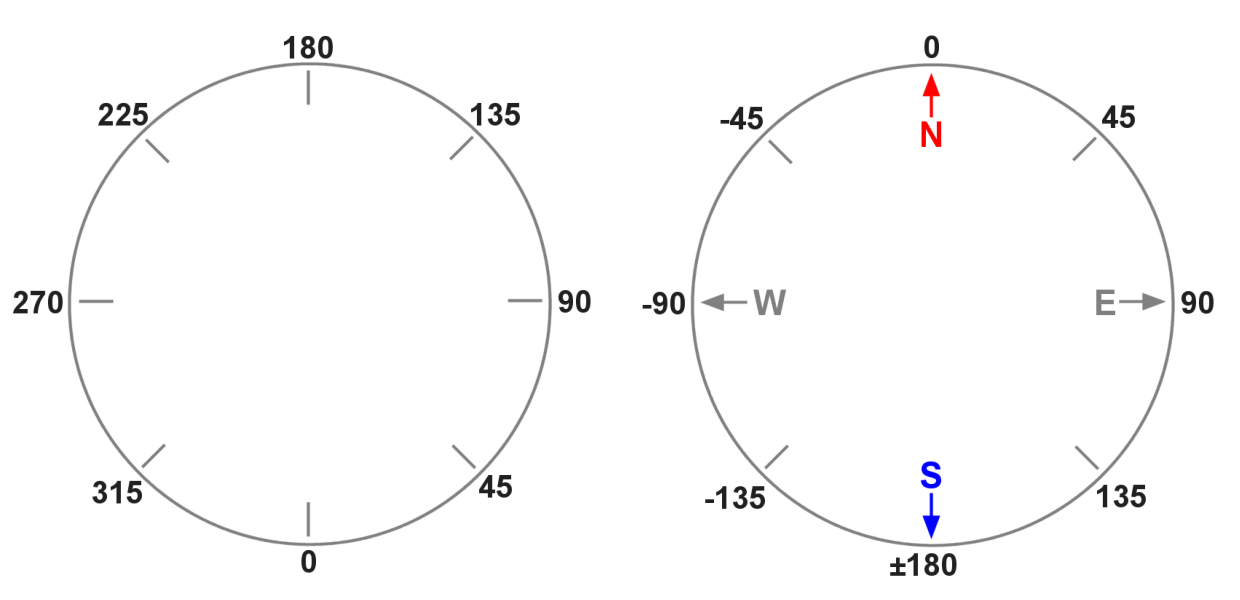
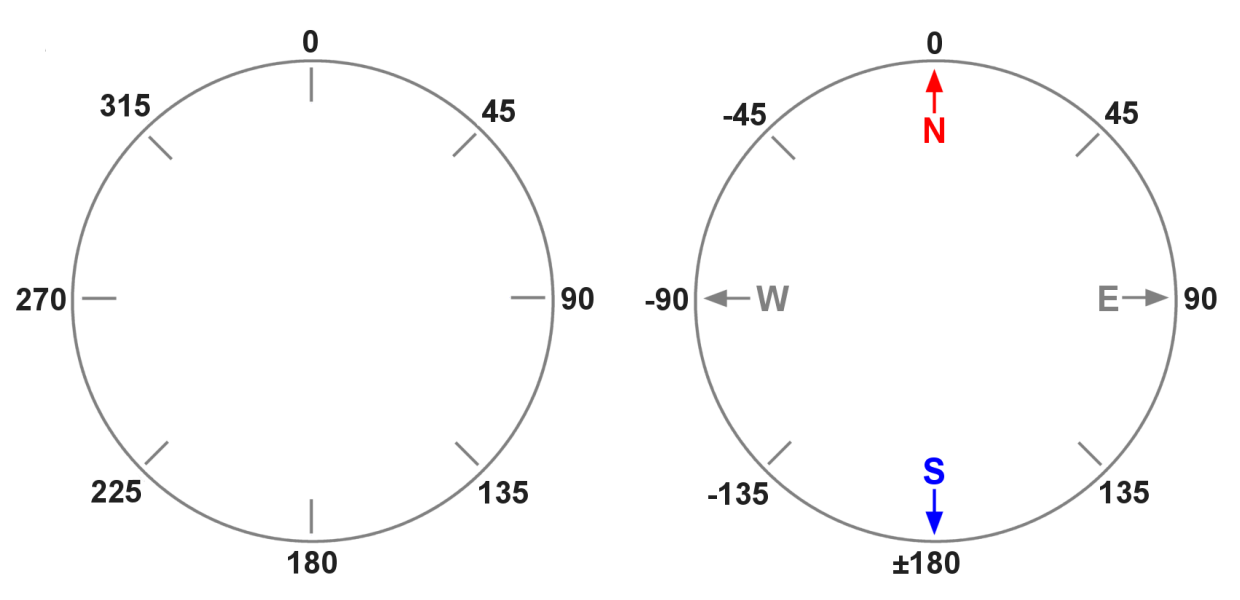
modified:   img/gps_bearing_n_attitude.png 	modified:   rospy/bebop2/bb2_6_move_by_gps.md

diff --git a/rospy/bebop2/bb2_6_move_by_gps.md b/rospy/bebop2/bb2_6_move_by_gps.md
@@ -188,7 +188,7 @@ from haversine import haversine
                   longitude 1 degree 
                 |<- 90075.833903 m -->| 
                 |                     | (longitude)
-    ----------  +---------p3----------+  34.444029
+    ----------  +---------p1----------+  34.444029
       ^         |          |          |          input latitude  of Point1:  35.944029
       |         |          |          |          input longitude of Point1: 126.184297 --+
       |         |          |          |          input latitude  of Point2:  35.944029   |
@@ -200,7 +200,7 @@ from haversine import haversine
       |         |     .    |          |          input latitude  of Point2:  36.444029 --+
       |         |   .      |          |          input longitude of Point2: 126.684297
       v         | .        |          |      distance = 111016.503262, bearing = 0.000018
-    ---------- p5---------p1----------+   36.444029
+    ---------- p5---------p3----------+   36.444029
 (longuitude) 126.184297 126.684297 127.184297
 
    longitude 1.0000000 = 90075.833903(m)       latitude 1.000000000 = 111016.503262(m)
@@ -364,13 +364,17 @@ if __name__ == '__main__':
 
 다음은 두 방위각( `get_bearing()` : 위 좌측 그림 참조,   `...AttitudeChanged.yaw` : 위 우측 그림 참조 )이 사용하는 방위각 형식을 1:1 로 매칭 시킨 표이다.
 
-| get_bearing( ) | 0  | 45  | 90   | 135  | 180  | 225 | 270  | 225  |
+| get_bearing( ) | 0  | 45  | 90   | 135  | 180  | 225 | 270  | 315 |
 | :--: | ---: | ---: | ---: | ---: | ---: | ---: | ---: | ---: |
-|**AttitudeChanged** | **180** | **135** | **90** | **45** | **0** | **-45** | **-90** | **-135** |
+|**AttitudeChanged** | **0** | **45** | **90** | **135** | **180** | **-135** | **-90** | **-45** |
 
-위 표를 살펴보면 ' `get_bearing()` + `...AttitudeChanged.yaw`  = 180 ' 의 관계가 성립한다는 것을 알 수 있다. 
+위 표를 살펴보면, 
 
-따라서 **' `Target_Attitude`  = 180 -  `get_bearing()` '** 로  `...AttitudeChanged.yaw` 형식의 목적 방위각을 구할 수 있다. 이렇게 구한 목적방위각( `Target_Attitude` )과 드론의 현재방위각( `Current_Attitude` )의 위치관계에 따라 다음 4가지 경우로 구분하여 회전시켜야 할 필요가 있다. 
+     **0 <= `get_bearing()` < 180** 인 경우 **`Target_Attitude` = `get_bearing()`** 인 관계가 성립하고,	
+
+**180 <= `get_bearing()` < 360** 인 경우 **`Target_Attitude` = `get_bearing()` - 360** 인 관계가 성립한다는 것을 알 수 있다. 
+
+이렇게 구한 목적방위각( `Target_Attitude` )과 드론의 현재방위각( `Current_Attitude` )의 위치관계에 따라 다음 4가지 경우로 구분하여 회전시켜야 할 필요가 있다. 
 
 **case1.**  `Current_Attitude` >= 0 `and`  `Target_Attitude` >= 0
 
@@ -380,209 +384,11 @@ if __name__ == '__main__':
 
 **case4.**  `Current_Attitude` <   0 `and`  `Target_Attitude` <   0 
 
-
-
 이를 이용하여  `get_bearing()` 으로 구한 방위각으로 부터 `Target_Attitude` 를 구하고,  `Target_Attitude` 에 도달할 때까지 기체를 회전시키는 코드를 구현해보자. 
 
 ```python
-#!/usr/bin/env python
-
-import rospy, sys
-from std_msgs.msg import Empty
-from std_msgs.msg import String
-from geometry_msgs.msg import Twist
-from bebop_msgs.msg import Ardrone3PilotingStatePositionChanged
-from bebop_msgs.msg import Ardrone3PilotingStateAttitudeChanged
-from bebop_msgs.msg import Ardrone3GPSStateNumberOfSatelliteChanged
-from math import pi, radians, degrees#, pow, sqrt, atan
-from bb2_pkg.MoveBB2 import MoveBB2
-from bb2_pkg.GPS import GPS
-
-USE_SPHINX   = bool(int(sys.argv[1]))
-
-LAT = 0; LON =   1   
-
-OFFSET_LAT   = -13.645105
-OFFSET_LON   = 126.715070
-
-LIN_SPD      =   0.25
-ANG_SPD      =   0.25
-
-TARGET_LATI  = 500.0
-TARGET_LONG  = 500.0
-TARGET_ATTI  =   0.0
-TARGET_DIST  =   0.0
-
-class MoveByGPS:
-    
-    def __init__(self):
-
-        rospy.init_node("move_by_gps", anonymous=True)
-        
-        rospy.Subscriber("/bebop/states/ardrone3/PilotingState/PositionChanged", 
-                          Ardrone3PilotingStatePositionChanged, self.get_gps_cb)
-        rospy.Subscriber("/bebop/states/ardrone3/PilotingState/AttitudeChanged",
-                          Ardrone3PilotingStateAttitudeChanged, self.get_atti_cb, queue_size = 1)
-        rospy.Subscriber("/bebop/states/ardrone3/GPSState/NumberOfSatelliteChanged", 
-                          Ardrone3GPSStateNumberOfSatelliteChanged, self.get_num_sat_cb, queue_size = 1)
-                          
-        self.pub0  = rospy.Publisher('/bebop/cmd_vel', Twist, queue_size = 1)
-        self.pub1  = rospy.Publisher('/bebop/takeoff', Empty, queue_size = 1)
-        self.pub2  = rospy.Publisher('/bebop/land',    Empty, queue_size = 1)
-        
-        self.tw    = Twist()
-        self.empty = Empty()
-        self.gps   = GPS()
-        
-        self.current_lati = 500.0
-        self.current_long = 500.0
-        self.current_atti =   0.0
-        
-        self.target_lati  =   0.0
-        self.target_long  =   0.0
-        self.target_atti  =   0.0
-         
-        self.start_lati   =   0.0
-        self.start_long   =   0.0
-        self.start_atti   =   0.0
-        
-        self.restart_lati =   0.0
-        self.restart_long =   0.0
-        self.restart_atti =   0.0
-        
-        self.target_dist  =   0.0
-        self.target_atti  =   0.0
-        
-        self.num_sat      =   0
-        
-        self.is_location_of_start_saved = False
-        self.is_there_enough_satellites = False
-
-
-    def get_gps_cb(self, msg):
-    
-        if USE_SPHINX is True:
-            self.current_lati = msg.latitude  + OFFSET_LAT
-            self.current_long = msg.longitude + OFFSET_LON
-        else:
-            self.current_lati = msg.latitude;   self.current_long = msg.longitude
-    
-           
-    def get_atti_cb(self, msg):
-        self.current_atti = msg.yaw
-        # print "%s" %(degrees(self.current_atti))
-        
-           
-    def get_num_sat_cb(self, msg):
-        
-        self.num_sat = msg.numberOfSatellite
-        
-        if(self.num_sat >= 10 and self.current_lati != 500.0 and self.is_start_location_saved == False):
-            
-            self.start_lati = self.current_lati
-            self.start_long = self.current_long
-            
-            self.is_location_of_start_saved = True
-            
-            print(">> GPS Location for RTB(Returm to Base) is saved")
-            print("   (%s, %s)\n" %(self.start_lati, self.start_long))
-    
-                 
-    def get_target(self, p1, p2):
-        gps = GPS()
-        p1  = (self.current_latti, self.current_long)
-        p2  = (self.target_latti,  self.target_long )
-        self.target_dist = gps.get_distance(p1, p2)
-        self.target_atti = radians(180 - gps.get_bearing(p1, p2))
-        
-    
-    def rotate2bearing(self, target, tolarance):
-        
-        tol = abs(self.current_atti - target) * tolarance
-    
-        if   self.current_atti >= 0 and target >= 0:
-            '''                                   |     T             C         T
-            <-+-+-+-+-+-+-+-+-+-+-+-+-+-+-+-+-+-+-+-+-+-+-+-+-+-+-+-+-+-+-+-+-+-+-+-+-+->
-            -180               -90                0                 90               180
-            '''
-            if current_atti > target:
-                self.tw.angular.z =  ANG_SPD
-                while current_atti - tol > target:
-                    self.pub0.publish(tw)
-            else:
-                self.tw.angular.z = -ANG_SPD
-                while current_atti < target - tol:
-                    self.pub0.publish(tw)
-            self.tw.angular.z = 0;  self.pub0.publish(tw)
-        
-        elif self.current_atti >= 0 and target <  0:
-            '''                     T             |         C
-            <-+-+-+-+-+-+-+-+-+-+-+-+-+-+-+-+-+-+-+-+-+-+-+-+-+-+-+-+-+-+-+-+-+-+-+-+-+->
-            -180               -90                0                 90               180
-            '''
-            self.tw.angular.z =  ANG_SPD
-            while self.current_atti >= 0:
-                self.pub0.publish(tw)
-            while current_atti - tol > target:
-                self.pub0.publish(tw)
-            self.tw.angular.z = 0;  self.pub0.publish(tw)
-        
-        elif self.current_atti <  0 and target >= 0:
-            '''                     C             |               T
-            <-+-+-+-+-+-+-+-+-+-+-+-+-+-+-+-+-+-+-+-+-+-+-+-+-+-+-+-+-+-+-+-+-+-+-+-+-+->
-            -180               -90                0                 90               180
-            '''
-            self.tw.angular.z = -ANG_SPD
-            while self.current_atti <  0:
-                self.pub0.publish(tw)
-            while current_atti < target - tol:
-                self.pub0.publish(tw)
-            self.tw.angular.z = 0;  self.pub0.publish(tw)
-        
-        elif self.current_atti <  0 and target <  0:
-            '''   T           C         T         |
-            <-+-+-+-+-+-+-+-+-+-+-+-+-+-+-+-+-+-+-+-+-+-+-+-+-+-+-+-+-+-+-+-+-+-+-+-+-+->
-            -180               -90                0                 90               180
-            '''
-            if current_atti > target:
-                self.tw.angular.z = -ANG_SPD
-                while current_atti - tol > target:
-                    self.pub0.publish(tw)
-            else:
-                self.tw.angular.z =  ANG_SPD
-                while current_atti < target - tol:
-                    self.pub0.publish(tw)
-            self.tw.angular.z = 0;  self.pub0.publish(tw)
-        
-        else:   pass
-        
-                
-if __name__ == '__main__':
-    
-    try:
-        gps = GPS()
-        mbg = MoveByGPS()       
-        
-        print("Wait GPS signals from enough number of satlelite....")
-        
-        while(mbg.is_location_of_start_saved == False):  pass
-        
-        LAT_DEST = float(input("input latitude  go to: "))
-        LON_DEST = float(input("input longitude go to: "))
-        
-        TARGET_ANG = gps.get_bearing(mbg.current_lati, mbg.current_long, LAT_DEST, LON_DEST)
-        
-        print("Target distance(%f) & angle(%f) are saved!!!\n" %(mbg.target_dist, mbg.target_atti))
-        
-        mbg.to_bearing(TARGET_ANG, 0.025)
-        
-        rospy.spin()
-            
-    except rospy.ROSInterruptException: pass
 
 ```
-
-
 
 
 
